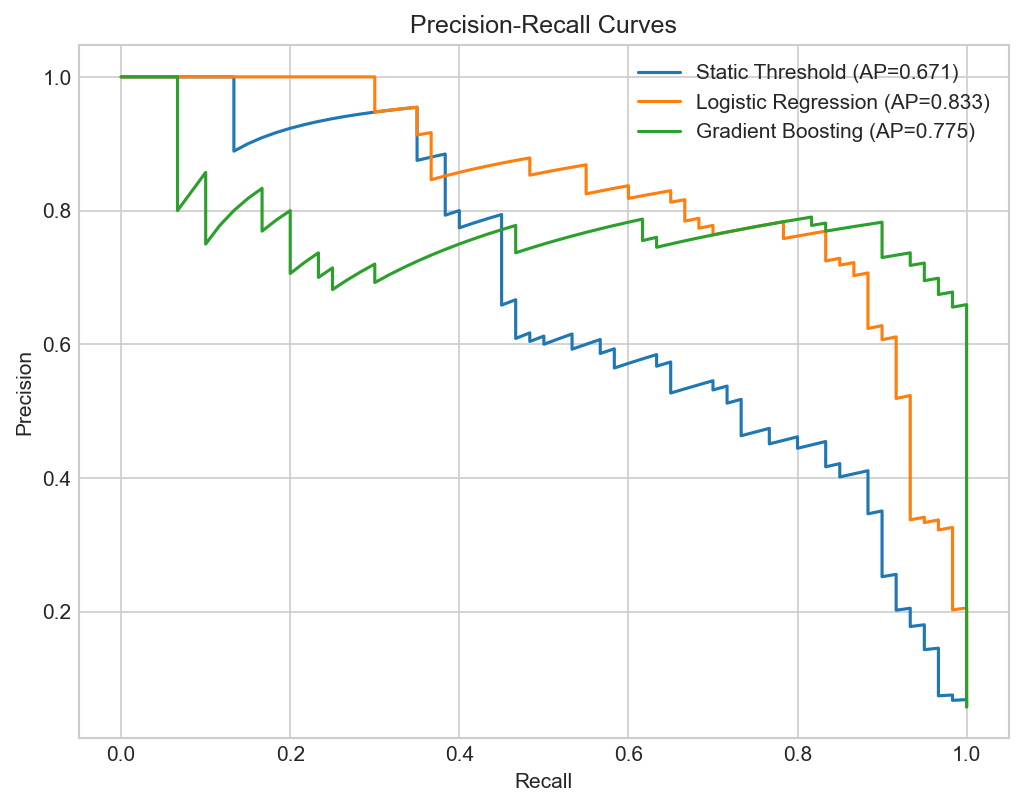
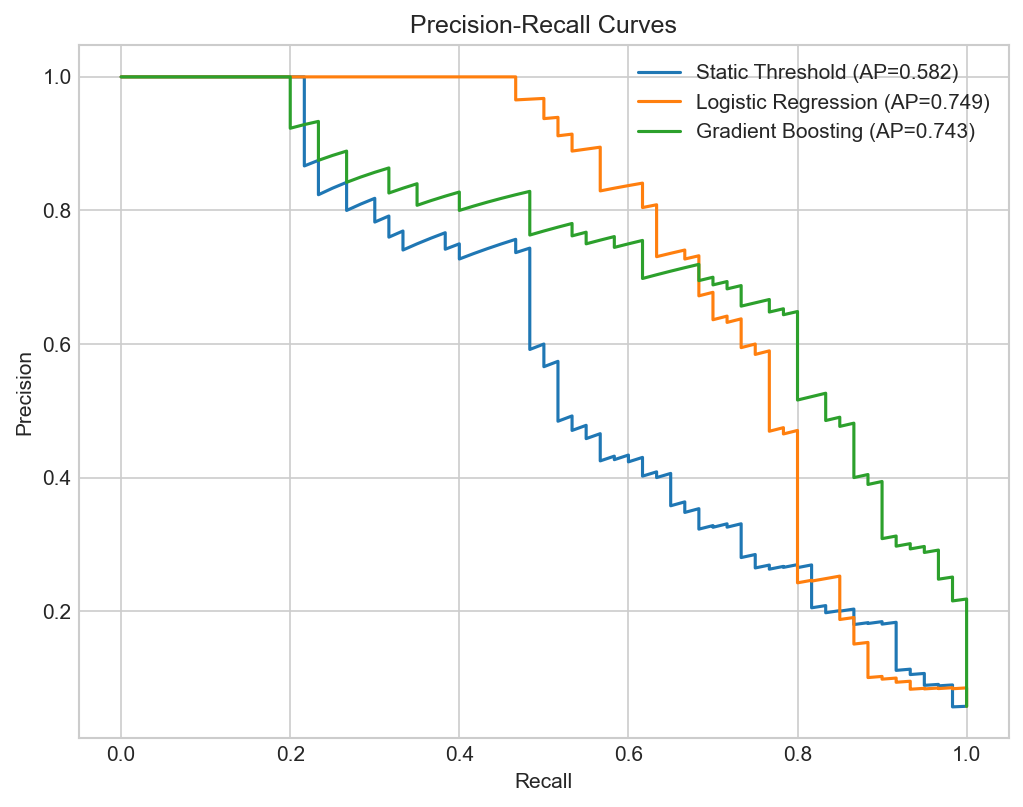
feat: vary incident difficulty and fix label bug

diff --git a/data.py b/data.py
@@ -15,21 +15,47 @@ def generate_series(n_steps=5000, n_incidents=20, seed=42):
     for start, end in incidents:
         duration = end - start
 
-        ramp_start = max(0, start - 30)
+        ramp_len = int(rng.integers(15, 35))
+        ramp_mag = rng.uniform(1.3, 2.2)
+
+        ramp_start = max(0, start - ramp_len)
         ramp_length = start - ramp_start
         if ramp_length > 0:
             r = np.linspace(0, 1, ramp_length)
-            signal[ramp_start:start] += r * 1.8
+            signal[ramp_start:start] += r * ramp_mag
             signal[ramp_start:start] += r * rng.normal(0, 0.8, ramp_length)
 
         signal[start:end] += 3.0
         signal[start:end] += rng.normal(0, 0.5, duration)
+
+    _add_false_ramps(rng, signal, incidents, n_steps)
 
     return {
         "values": signal,
         "incidents": incidents,
         "timestamps": np.arange(n_steps),
     }
+
+
+def _add_false_ramps(rng, signal, incidents, n_steps, n_false=3):
+    occupied = np.zeros(n_steps, dtype=bool)
+    for start, end in incidents:
+        lo = max(0, start - 50)
+        hi = min(n_steps, end + 20)
+        occupied[lo:hi] = True
+
+    placed = 0
+    for _ in range(50):
+        if placed >= n_false:
+            break
+        pos = int(rng.integers(100, n_steps - 50))
+        ramp_len = int(rng.integers(15, 30))
+        if np.any(occupied[pos:pos + ramp_len]):
+            continue
+        r = np.linspace(0, 1, ramp_len)
+        signal[pos:pos + ramp_len] += r * rng.uniform(0.5, 1.0)
+        signal[pos:pos + ramp_len] += r * rng.normal(0, 0.5, ramp_len)
+        placed += 1
 
 
 def _place_incidents(rng, n_steps, n_incidents):

diff --git a/main.py b/main.py
@@ -1,7 +1,9 @@
 import argparse
 import os
 
-from data import generate_series
+import numpy as np
+
+from data import generate_series, plot_series
 from evaluate import plot_confusion_matrix, plot_pr_curves, print_metrics, threshold_analysis
 from models import GradientBoostingModel, LogisticRegressionBaseline, StaticThresholdBaseline
 from pipeline import create_dataset, extract_features, temporal_split
@@ -34,8 +36,13 @@ def main():
     X_train, X_test, y_train, y_test, _, _ = temporal_split(X, y, positions)
     print(f"Train: {len(y_train)} ({y_train.sum()} pos) | Test: {len(y_test)} ({y_test.sum()} pos)")
 
+    plot_series(data, path=os.path.join(args.output_dir, "series.png"))
+
     feat_train = extract_features(X_train)
     feat_test = extract_features(X_test)
+
+    gb_train = np.hstack([X_train, feat_train])
+    gb_test = np.hstack([X_test, feat_test])
 
     models = {}
 
@@ -54,10 +61,10 @@ def main():
     )
 
     gb = GradientBoostingModel()
-    gb.fit(X_train, y_train)
+    gb.fit(gb_train, y_train)
     models["Gradient Boosting"] = (
-        gb.predict(X_test),
-        gb.predict_proba(X_test),
+        gb.predict(gb_test),
+        gb.predict_proba(gb_test),
     )
 
     print("\n" + "=" * 60)

diff --git a/pipeline.py b/pipeline.py
@@ -27,7 +27,7 @@ def create_dataset(values, incidents, window_size=50, horizon=10):
         if np.any(is_buffer[w_start:w_end]):
             continue
 
-        label = int(any(s for s in incident_starts if t < s <= t + horizon))
+        label = int(any(t < s <= t + horizon for s in incident_starts))
 
         windows.append(values[w_start:w_end])
         labels.append(label)

diff --git a/README.md b/README.md
@@ -4,8 +4,6 @@ Sliding-window binary classifier that predicts whether a metric incident
 (anomaly/threshold breach) will occur within the next H time steps, given
 the previous W steps of data.
 
-Built as a test task for a JetBrains ML internship application.
-
 ## Setup
 
     pip install -r requirements.txt
@@ -20,11 +18,13 @@ Optional arguments:
 Synthetic single-metric time series, 5000 steps, 20 incidents spread
 across the full timeline. The base signal is periodic (sinusoidal with
 period 100) plus Gaussian noise and a slow linear trend. Each incident
-is a +3.0 spike lasting 10-20 steps, preceded by a 30-step pre-incident
-signature: gradual mean drift (ramping up to +1.8) and increasing
-variance. This ramp is the signal the models learn to detect. Synthetic
-data was chosen for full control over ground truth labels, since the
-task emphasizes problem formulation over data complexity.
+is a +3.0 spike lasting 10-20 steps, preceded by a pre-incident ramp
+of varying length (15-34 steps) and magnitude (1.3-2.2). The variation
+means some incidents have strong, obvious precursors while others are
+subtler and harder to detect. A few false-alarm ramps are also injected
+at non-incident locations to test specificity. Synthetic data was chosen
+for full control over ground truth labels, since the task emphasizes
+problem formulation over data complexity.
 
 ## Problem Formulation
 
@@ -56,8 +56,9 @@ Three models, ordered by complexity:
    window halves). StandardScaler preprocessing, balanced class weights.
 
 3. **Histogram gradient boosting** - scikit-learn's
-   HistGradientBoostingClassifier on raw window values. Each timestep
-   position in the window is a feature. Balanced via sample weights.
+   HistGradientBoostingClassifier on raw window values concatenated with
+   the same hand-crafted features used by logistic regression. Balanced
+   via sample weights.
 
 The progression matters: if the static threshold achieved competitive
 F1, the ML models would not justify their complexity. The gap between
@@ -68,27 +69,31 @@ beyond simple magnitude.
 
 | Model | Precision | Recall | F1 | AP |
 |-------|-----------|--------|----|----|
-| Static Threshold | 0.358 | 0.883 | 0.510 | 0.671 |
-| Logistic Regression | 0.155 | 1.000 | 0.268 | 0.833 |
-| Gradient Boosting | 0.522 | 1.000 | 0.686 | 0.775 |
+| Static Threshold | 0.325 | 0.683 | 0.441 | 0.582 |
+| Logistic Regression | 0.165 | 0.867 | 0.277 | 0.749 |
+| Gradient Boosting | 0.448 | 0.867 | 0.591 | 0.743 |
 
-Gradient boosting achieves the best F1 (0.686) with perfect recall,
-significantly outperforming the static threshold baseline (0.510).
-Logistic regression has the highest average precision (0.833), showing
-strong ranking ability, but over-predicts at the default 0.5 threshold
-due to balanced class weights shifting the decision boundary.
+Gradient boosting achieves the best F1 (0.591) with 86.7% recall,
+outperforming the static threshold baseline (0.441). Neither ML model
+reaches perfect recall because the data contains incidents with weaker
+precursors that are harder to distinguish from normal variation.
+Logistic regression matches GB on recall but with much lower precision,
+over-predicting due to balanced class weights shifting the decision
+boundary.
 
 Threshold analysis on the gradient boosting model shows F1 improves to
-0.719 at threshold 0.80, maintaining 100% recall while reducing false
-positives.
+0.641 at threshold 0.80, trading some recall (83.3%) for better
+precision (0.521). The tradeoff is meaningful: at lower thresholds the
+model catches more incidents but generates more false alerts.
 
+![Time Series](results/series.png)
 ![Precision-Recall Curves](results/pr_curve.png)
 ![Confusion Matrix](results/confusion_matrix.png)
 ![Threshold Analysis](results/threshold_analysis.png)
 
 ## Limitations
 
-- Synthetic data - real metrics have distribution shifts, seasonality, and correlated multi-metric behavior
+- Synthetic data with variable-difficulty incidents - real metrics have distribution shifts, seasonality, and correlated multi-metric behavior
 - Single metric - production systems monitor dozens of signals jointly
 - Fixed W and H - not tuned, could be optimized via cross-validation
 - No streaming mode - real alerting requires incremental window updates
